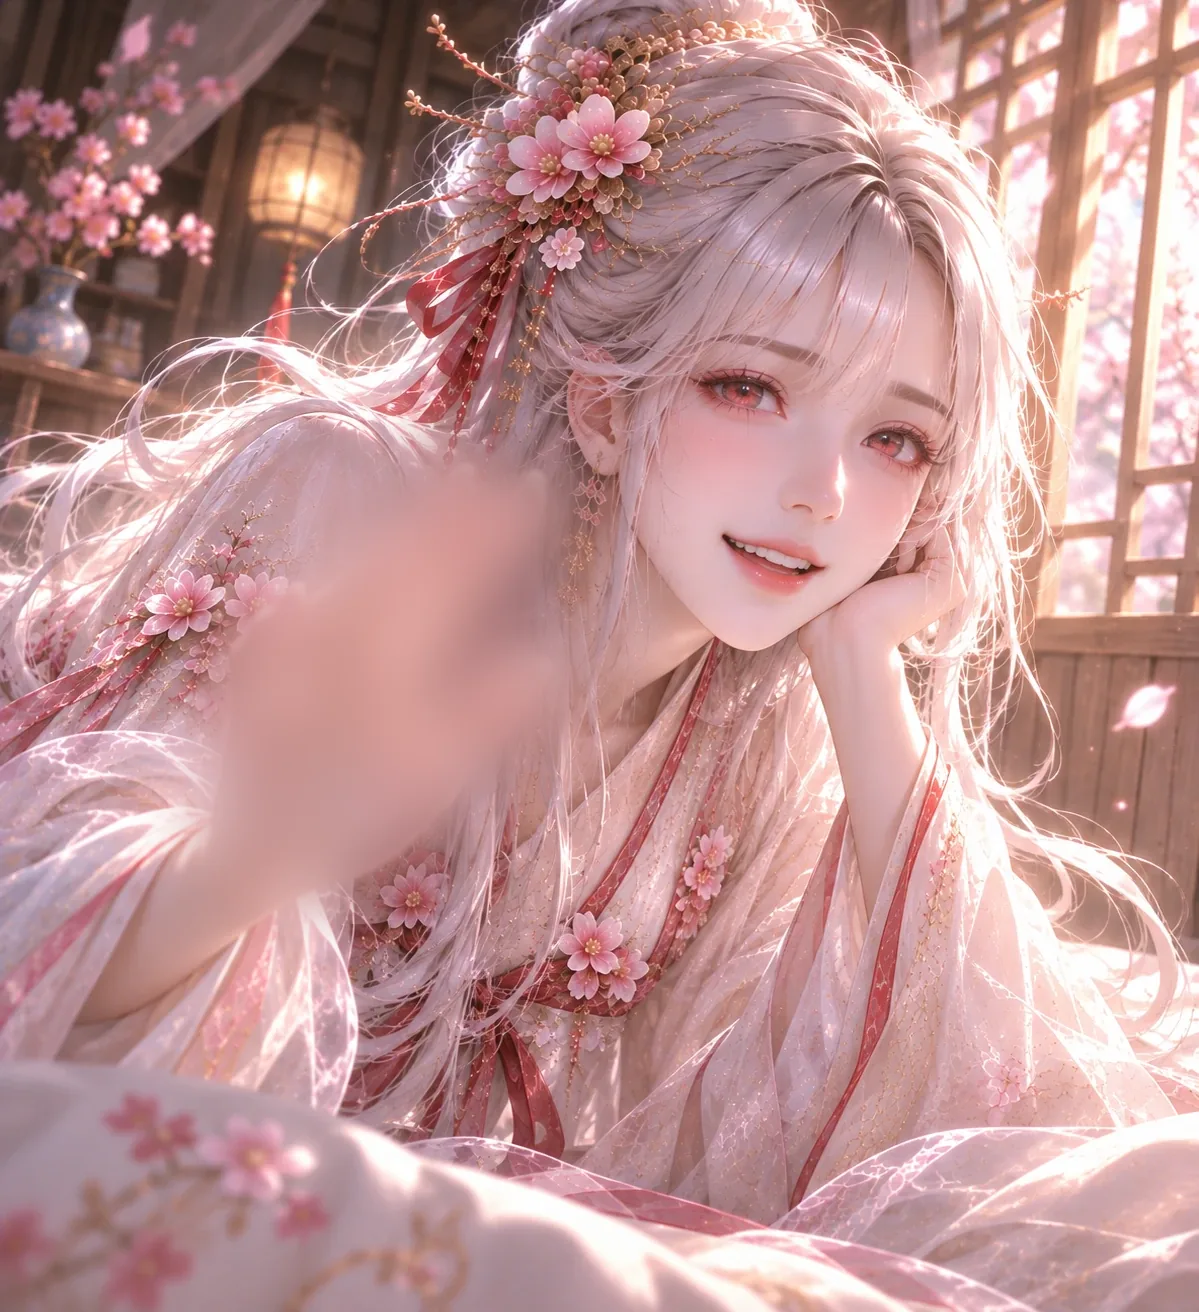
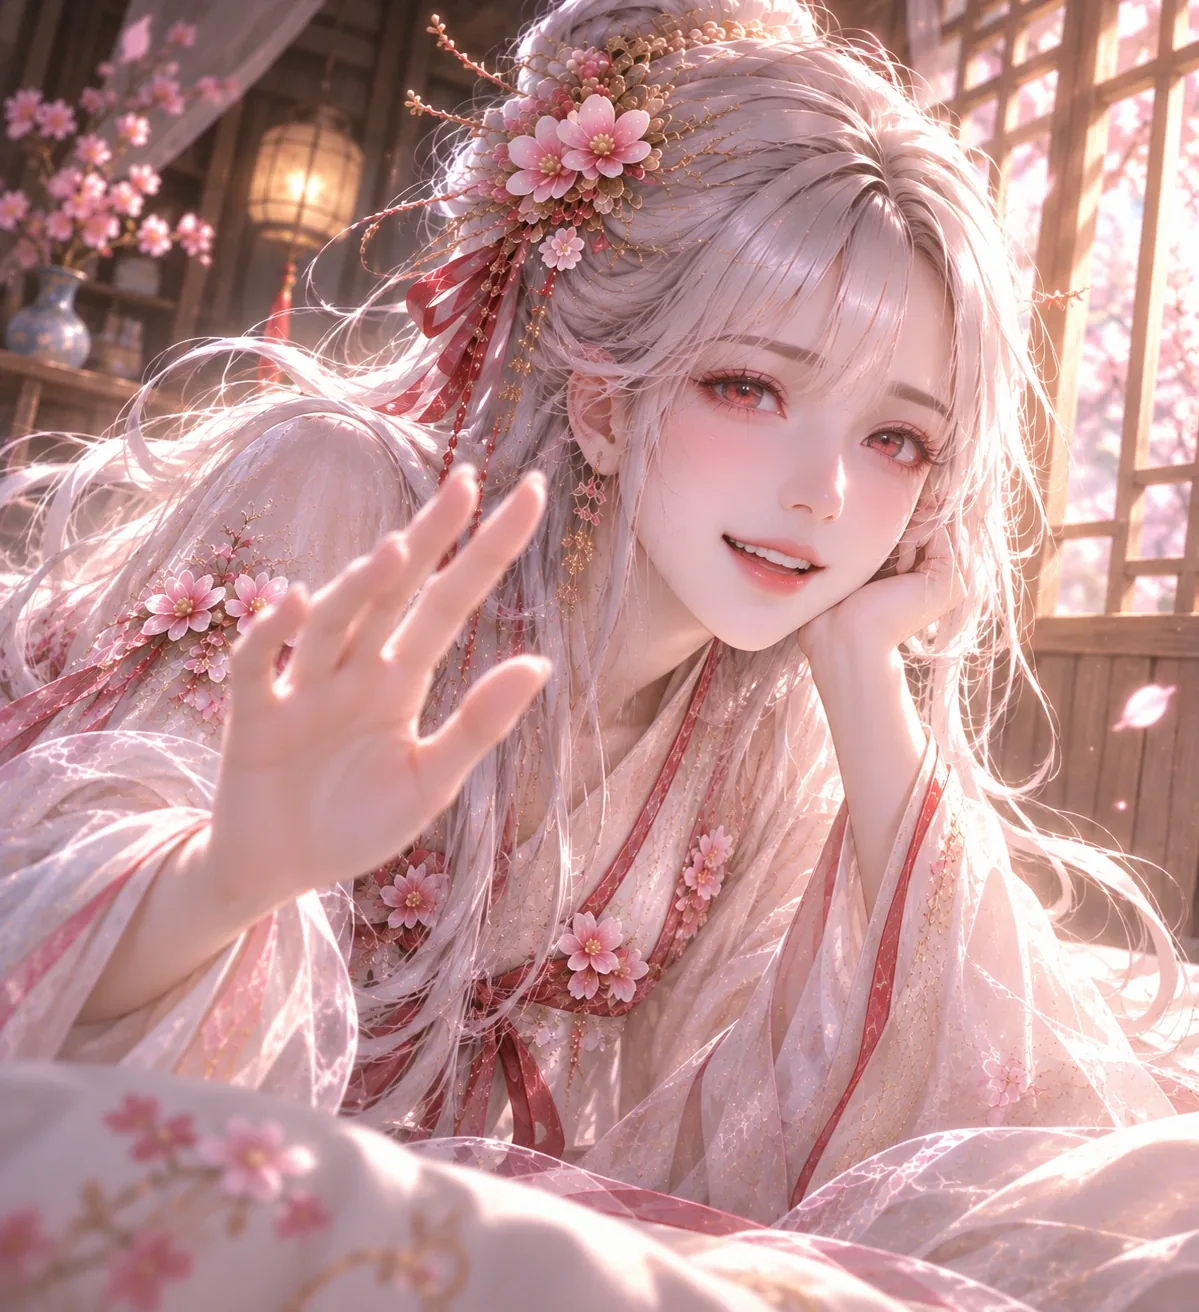
拿掉叫醒畫面裡會擺動的手,換回原圖
Claude-Session: https://claude.ai/code/session_01UjfHxm9ZiDvCtWyu3Z7Vkp

Changed region(s): [[0.2469, 0.3125, 0.4937, 0.7188], [0.1543, 0.4375, 0.2777, 0.6562]]

diff --git a/index.html b/index.html
@@ -2208,7 +2208,7 @@
     animation: awaken-gold 12s ease-in both;
   }
   @keyframes awaken-gold { 0%, 63.3% { opacity: 0; } 72% { opacity: .55; } 78% { opacity: 1; } 81%, 100% { opacity: 0; } }
-  /* 醒來:眼前是雪梅花,從模糊慢慢對焦(圖用 sceneStage 鋪,手會動) */
+  /* 醒來:眼前是雪梅花,從模糊慢慢對焦(圖用 sceneStage 鋪) */
   .aw-wake {
     inset: 0;
     overflow: hidden;
@@ -2374,8 +2374,7 @@
     scrollbar-width: thin;
     scrollbar-color: var(--border) transparent;
   }
-  /* 段落的圖(見 sceneStage):跟 background-size: cover 一樣鋪滿,對齊點是 content.js 的 artPos(--px、--py)。
-     這樣才能在圖上的固定位置疊東西:會動的手(wave)以手腕為軸左右擺,像在你眼前晃 */
+  /* 段落的圖(見 sceneStage):跟 background-size: cover 一樣鋪滿,對齊點是 content.js 的 artPos(--px、--py) */
   .scene-stage {
     position: absolute;
     width: max(100cqw, calc(100cqh * var(--ar)));
@@ -2385,14 +2384,6 @@
   }
   .scene-stage img { position: absolute; display: block; pointer-events: none; user-select: none; -webkit-user-drag: none; }
   .scene-base { inset: 0; width: 100%; height: 100%; }
-  .scene-wave { height: auto; animation: scene-wave 4s ease-in-out .6s infinite; }
-  @keyframes scene-wave {
-    0%, 40%, 100% { transform: rotate(0); }
-    8% { transform: rotate(-6deg); }
-    16% { transform: rotate(5deg); }
-    24% { transform: rotate(-4deg); }
-    32% { transform: rotate(2deg); }
-  }
   /* 劇情畫面裡的圖慢慢呼吸(微微推近再退回) */
   .child-scene .scene-stage { transform-origin: 60% 35%; animation: scene-breathe 9s ease-in-out infinite alternate; }
   @keyframes scene-breathe { to { transform: scale(1.025); } }
@@ -2414,7 +2405,7 @@
     to { transform: translate(var(--dx), 110cqh) rotate(400deg); }
   }
   @media (prefers-reduced-motion: reduce) {
-    .scene-stage, .scene-wave, .scene-petals b { animation: none !important; }
+    .scene-stage, .scene-petals b { animation: none !important; }
     .battle, .battle *, .fade-in { animation: none !important; transition: none !important; }
     .b-float, .b-fx, .b-intro, .pick-fx, .pick-ghost { display: none; }
   }
@@ -3759,15 +3750,12 @@ function goChild(to) {
   render();
 }
 
-// 段落的圖(content.js 的 art、artSize、artPos):用一個跟圖同比例的舞台鋪滿畫面(跟 background-size: cover 一樣),
-// 有 wave 的話再疊一層會動的手,位置和手腕(擺動的軸)都用圖上的百分比
+// 段落的圖(content.js 的 art、artSize、artPos):用一個跟圖同比例的舞台鋪滿畫面(跟 background-size: cover 一樣)
 function sceneStage(node) {
   const [w, h] = node.artSize;
   const [px, py] = node.artPos || [50, 50];
-  const wv = node.wave;
   return el("div", { class: "scene-stage", style: `--ar:${(w / h).toFixed(4)};--ari:${(h / w).toFixed(4)};--px:${px};--py:${py}` }, [
-    el("img", { class: "scene-base", src: node.art, alt: "" }),
-    wv ? el("img", { class: "scene-wave", src: wv.src, alt: "", style: `left:${wv.box[0]}%;top:${wv.box[1]}%;width:${wv.box[2]}%;transform-origin:${wv.pivot[0]}% ${wv.pivot[1]}%` }) : null
+    el("img", { class: "scene-base", src: node.art, alt: "" })
   ]);
 }
 

diff --git a/content.js b/content.js
@@ -203,9 +203,8 @@ const CONTENT = {
      一段一個節點:title 標題、text 劇情(一句一句打出來)、choices 選項。
      選項的 to = 接哪個節點;"battle:childBattle" = 開打;"prologue" = 進序章戰鬥。
      input: "name" = 這一段要玩家取名字(存在本機,另外產生一組隱藏的 ID)
-     art = 這一段的圖:圖鋪滿上方,文字壓在圖的下緣。artSize = 圖的寬高(px);artPos = 圖的哪一點對齊畫面(百分比,
-           跟 background-position 一樣,裁切時保住這一點);wave = 疊在圖上會動的手:src 切出來的手、
-           box = 手在原圖上的位置 [左, 上, 寬](百分比)、pivot = 手腕在手那張圖上的位置(擺動的軸,百分比);
+     art = 這一段的圖:圖鋪滿上方,文字壓在圖的下緣(會慢慢呼吸)。artSize = 圖的寬高(px);
+           artPos = 圖的哪一點對齊畫面(百分比,跟 background-position 一樣,裁切時保住這一點);
            petals: true = 畫面上飄花瓣
      文字裡的 {name} 會換成玩家取的名字
      opening = 第一次進遊戲的開場(全螢幕,約 12 秒,可以略過):主角在做惡夢,眨了幾次眼才醒來。
@@ -225,12 +224,10 @@ const CONTENT = {
     nodes: {
       name: {
         title: "",
-        // 雪梅花把做惡夢的你叫醒,伸手在你眼前晃(使用者提供的圖,原圖在 assets/src/awaken-wave.webp)。
-        // awaken.webp 是手的地方先模糊過的底圖,會動的手另外切成 awaken-hand.webp 疊上去
+        // 雪梅花把做惡夢的你叫醒,伸手在你眼前晃(使用者提供的圖,原圖在 assets/src/awaken-wave.webp)
         art: "assets/scene/awaken.webp",
         artSize: [1199, 1312],
         artPos: [55, 30],
-        wave: { src: "assets/scene/awaken-hand.webp", box: [14.68, 32.77, 34.7], pivot: [17.8, 90] },
         petals: true,
         text: "「你醒啦。」\n她伸手在你眼前晃了晃：「又做惡夢了？……睡糊塗了吧，還記得自己叫什麼嗎？」",
         input: "name", next: "morning"
